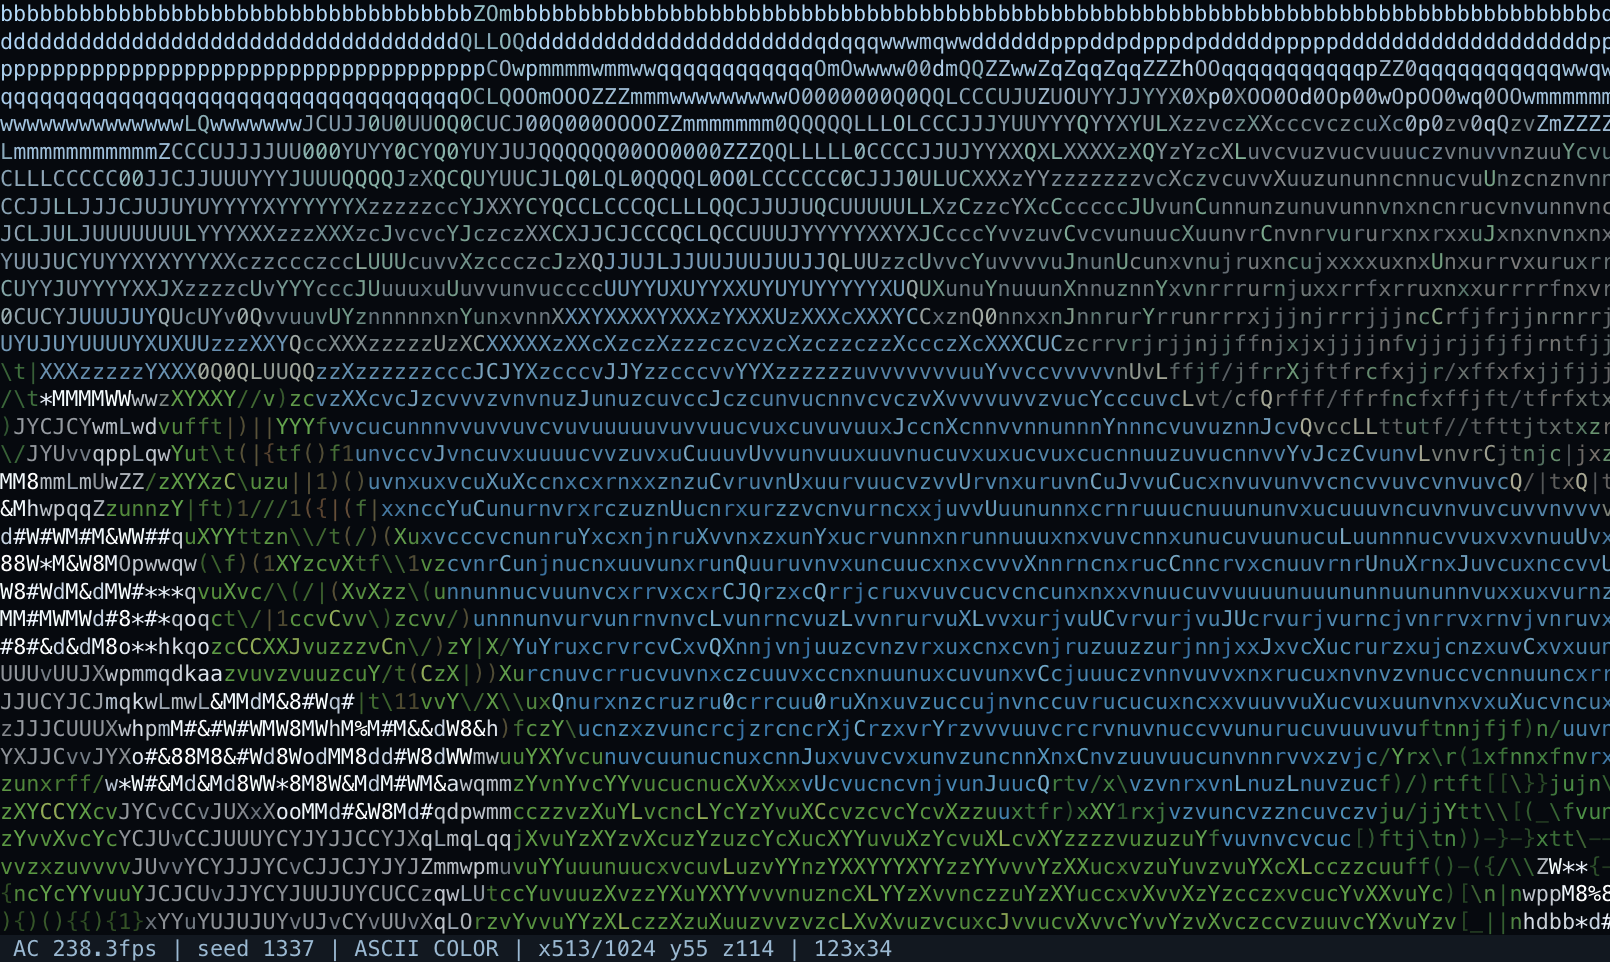
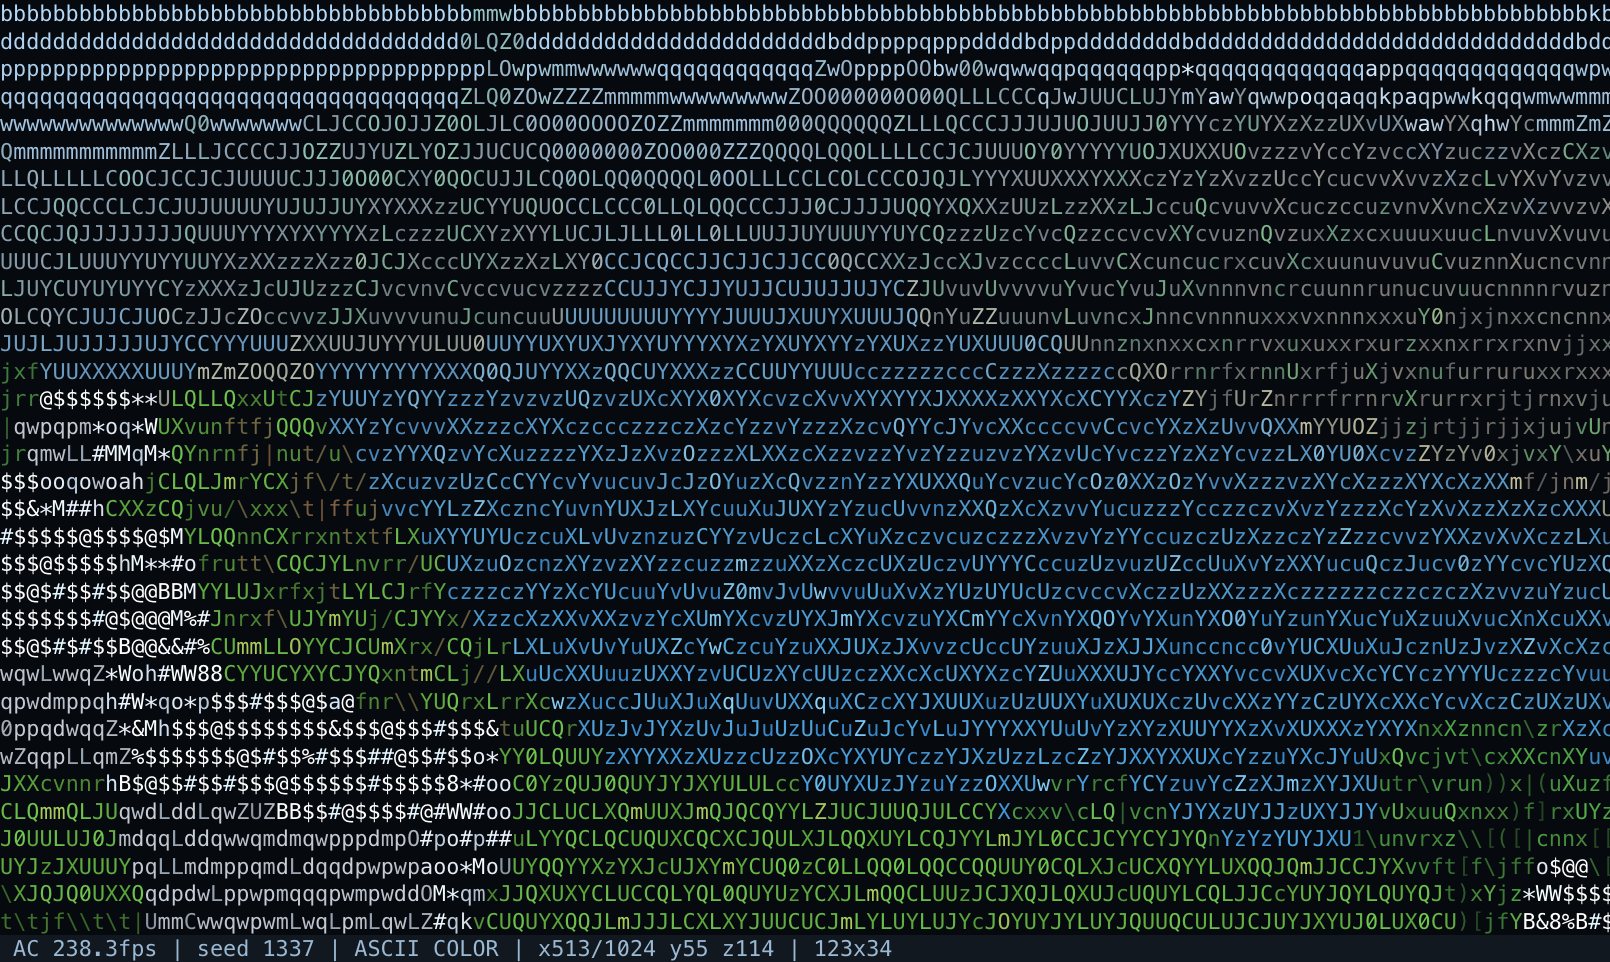
Refresh the gallery for the brighter palette
Regenerate all three README captures from the live renderer and record the intro hold and colour-grade changes under Unreleased. The README now also notes that the browser intro card gives the controls a readable beat before play.

Changed region(s): [[0.0, 0.0, 1.0, 0.9667], [0.2795, 0.0, 0.3416, 0.0624], [0.7764, 0.0312, 0.8385, 0.0624]]

diff --git a/CHANGELOG.md b/CHANGELOG.md
@@ -6,6 +6,18 @@ All notable changes to ASCIICRAFT are recorded here. The format follows
 
 ## [Unreleased]
 
+### Added
+
+- The browser intro card now holds for at least 2.2 seconds, even though world
+  generation finishes in a fraction of that time.
+
+### Changed
+
+- Brighter, more saturated in-game colours: raised face-light levels, an
+  exposure/vibrance grade before fog, and a stronger ANSI glyph lift. The new
+  palette applies to the terminal and browser builds in every render mode.
+- Regenerated the README screenshots with the new palette.
+
 ## [1.0.0] - 2026-11-14
 
 The first public release: a zero-dependency terminal renderer and a matching

diff --git a/README.md b/README.md
@@ -77,7 +77,8 @@ install, no build step. To run it locally:
 ```
 
 You can also open `web/index.html` directly from disk. Windows users can run
-`serve.bat`.
+`serve.bat`. The intro card stays up long enough to read the controls before the
+world starts moving.
 
 ## Screenshots
 
